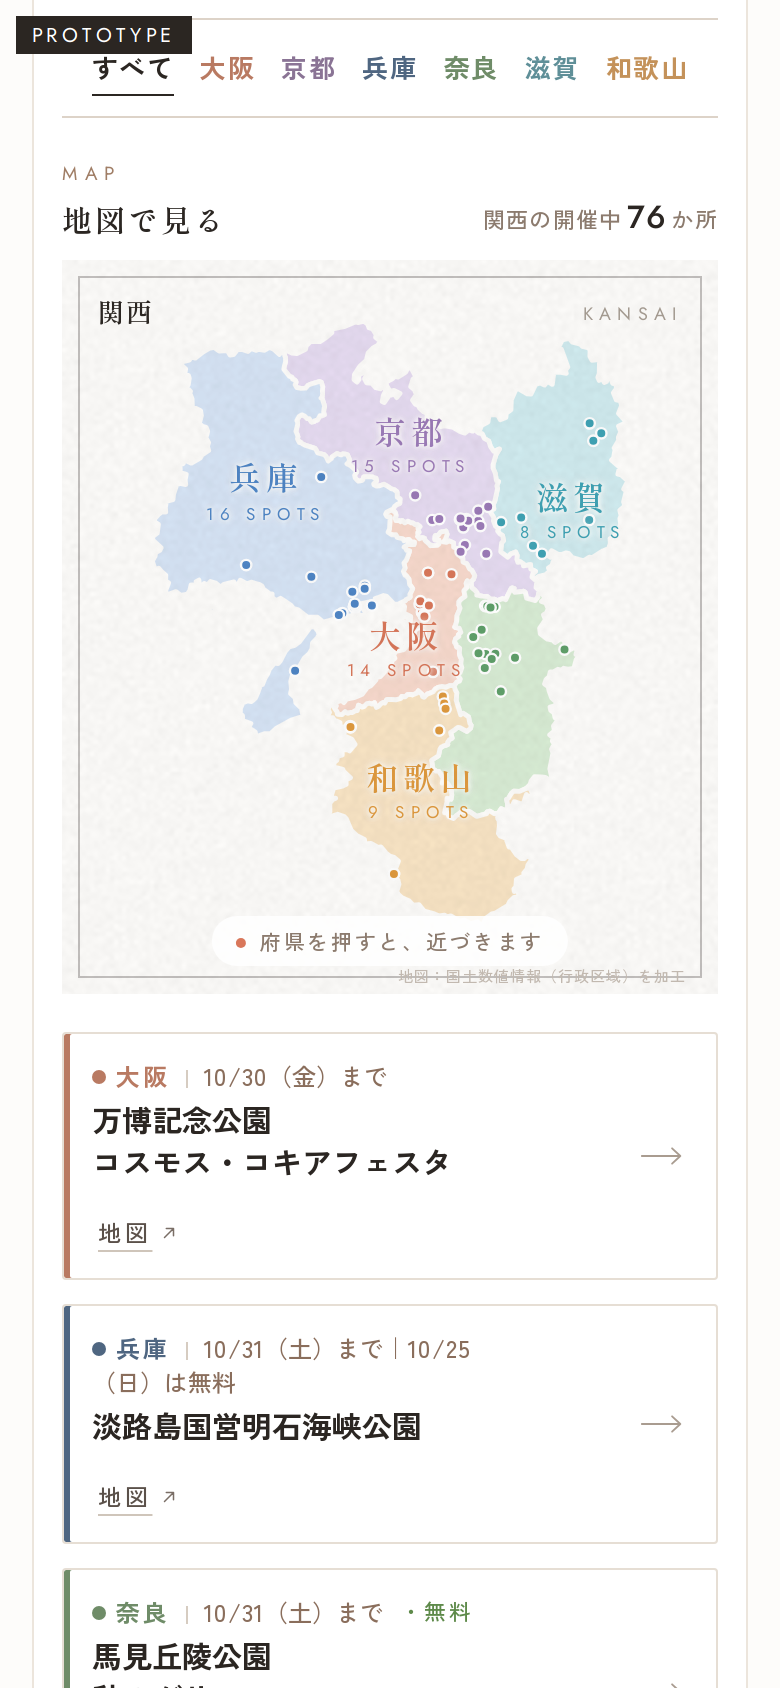
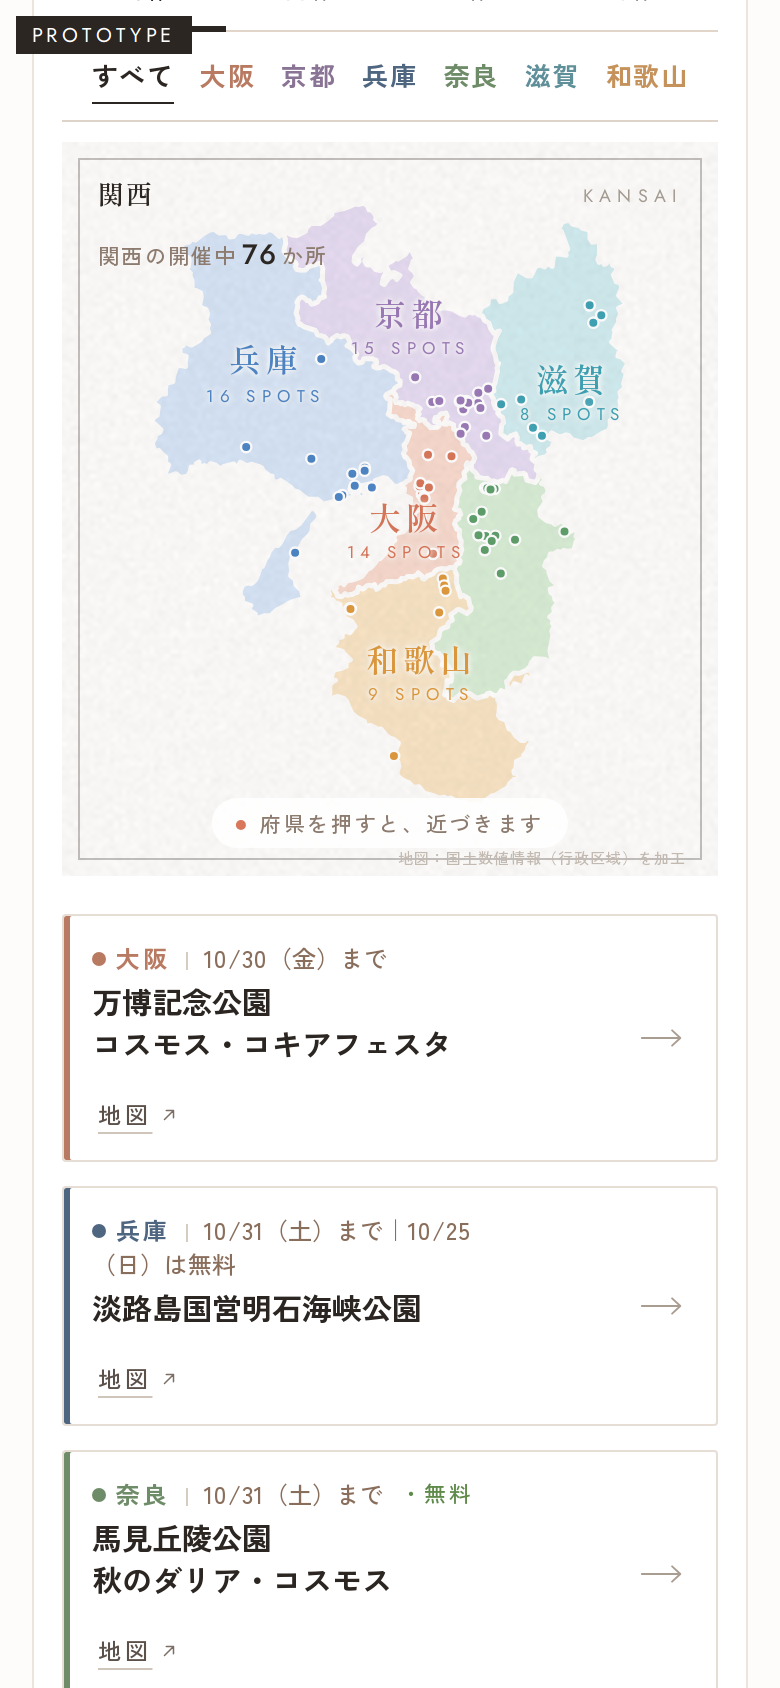
TOWN NOTES 試作：おでかけ先がある所だけ押せる地図 (#173)
* TOWN NOTES（仮）: おでかけ先の場所を緯度経度にする仕組み

Claude-Session: https://claude.ai/code/session_012U6So1FwuhCU8YQS91whDj

* TOWN NOTES（仮）: 地図とピンの仮ページ（links/townnotes/）

Claude-Session: https://claude.ai/code/session_012U6So1FwuhCU8YQS91whDj

* townnotes: geo.json

* TOWN NOTES（仮）: 今のおでかけリストに地図とピンを組み込んだ試作

Claude-Session: https://claude.ai/code/session_012U6So1FwuhCU8YQS91whDj

* 古い試作テンプレートを消す

Claude-Session: https://claude.ai/code/session_012U6So1FwuhCU8YQS91whDj

* townnotes: geo.json

* TOWN NOTES（仮）: もうすぐのピンを点線の輪に

Claude-Session: https://claude.ai/code/session_012U6So1FwuhCU8YQS91whDj

* TOWN NOTES（仮）: 地図を指で拡大できる明るい地図に（区名・駅名つき）

Claude-Session: https://claude.ai/code/session_012U6So1FwuhCU8YQS91whDj

* townnotes: shots

* TOWN NOTES（仮）: 府県名・まとまりの丸・出典の表示を直す

Claude-Session: https://claude.ai/code/session_012U6So1FwuhCU8YQS91whDj

* townnotes: shots

* TOWN NOTES（仮）: イラストの地図に戻す（府県・市区町村の形だけ、明るい色、指で拡大）

Claude-Session: https://claude.ai/code/session_012U6So1FwuhCU8YQS91whDj

* townnotes: shots

* TOWN NOTES（仮）: 府県を選んだとき、ほかの府県は薄いベージュに

Claude-Session: https://claude.ai/code/session_012U6So1FwuhCU8YQS91whDj

* townnotes: shots

* TOWN NOTES 試作 v5: 押すだけで 関西→府県→市・区 と寄る地図（指2本なし）

Claude-Session: https://claude.ai/code/session_012U6So1FwuhCU8YQS91whDj

* townnotes: shots

* TOWN NOTES 試作: 府県ボタンと件数を地図のすぐ上へ

Claude-Session: https://claude.ai/code/session_012U6So1FwuhCU8YQS91whDj

* townnotes: shots

* TOWN NOTES 試作: 件数の行は上に戻し、府県ボタンだけ地図の上へ
[…]

diff --git a/links/townnotes/map.js b/links/townnotes/map.js
@@ -35,7 +35,7 @@ var css=`
 .tn .lb{position:absolute;white-space:nowrap;transform:translate(-50%,-50%);text-shadow:0 0 2px #FDFCFA,0 0 3px #FDFCFA,0 0 6px rgba(253,252,250,.9)}
 .tn .lb.p{text-align:center;font-family:"Shippori Mincho",serif;font-weight:600;font-size:16px;letter-spacing:.16em;line-height:1.2}
 .tn .lb.p small{display:block;font-family:Jost,sans-serif;font-weight:400;font-size:8.5px;letter-spacing:.32em;margin-top:3px}
-.tn .lb.m{font-family:"Zen Kaku Gothic New",sans-serif;font-weight:700;font-size:11px;letter-spacing:.06em;color:#5C524A}
+.tn .lb.m{pointer-events:auto;cursor:pointer;padding:6px 4px;font-family:"Zen Kaku Gothic New",sans-serif;font-weight:700;font-size:11px;letter-spacing:.06em;color:#5C524A}
 .tn .lb.m b{font-family:Jost,sans-serif;font-weight:500;font-size:10px;color:#fff;background:var(--c);border-radius:8px;padding:0 5px;margin-left:4px;text-shadow:none}
 .tn .lb.w{font-family:"Zen Kaku Gothic New",sans-serif;font-weight:500;font-size:10px;letter-spacing:.06em;color:#9C8F84}
 .tn .lb.t.fl{transform:translate(calc(-100% - 12px),-50%)}
@@ -105,9 +105,9 @@ function inGeom(lon,lat,g){var ps=g.type==="Polygon"?[g.coordinates]:g.coordinat
 function el(t,a,par){var e=document.createElementNS(NS,t);for(var k in a)e.setAttribute(k,a[k]);if(par)par.appendChild(e);return e}
 function setup(KS){
  KS.pref.features.forEach(function(f){var p=f.properties.p;PF[p]={bb:gbb(f.geometry),path:el("path",{d:geom2d(f.geometry),"class":"pf",fill:FILL[p]},G.pf)};
-  PF[p].path.addEventListener("click",function(){if(level()===1)pickPref(p)})});
+  PF[p].path.addEventListener("click",function(){if(level()===1&&PF[p].has)flash(PF[p].path,DEEP[p],function(){pickPref(p)})})});
  KS.muni.features.forEach(function(f){var pr=f.properties,m={p:pr.p,n:pr.n,c:pr.c,g:f.geometry,bb:gbb(f.geometry)};m.id=m.p+"|"+m.c+"|"+m.n;
-  m.path=el("path",{d:geom2d(f.geometry),"class":"mu"},G.mu);m.path.addEventListener("click",function(ev){if(level()===2&&state.pref===m.p){ev.stopPropagation();goMuni(m.grp)}});MU.push(m)});
+  m.path=el("path",{d:geom2d(f.geometry),"class":"mu"},G.mu);m.path.addEventListener("click",function(ev){if(level()===2&&state.pref===m.p&&m.grp.has){ev.stopPropagation();var g=m.grp;g.mus.forEach(function(x){x.path.style.fill=DEEP[x.p]});setTimeout(function(){goMuni(g)},180)}});MU.push(m)});
  // 大阪市・京都市・神戸市・堺市などは、区をまとめて「市」として寄る
  MU.forEach(function(m){var gid=m.p+"|"+(m.c||m.n);var g=GR[gid];if(!g){g=GR[gid]={id:gid,p:m.p,n:m.c||m.n,city:!!m.c,mus:[],bb:[1e9,1e9,-1e9,-1e9]}}g.mus.push(m);m.grp=g;g.bb=[Math.min(g.bb[0],m.bb[0]),Math.min(g.bb[1],m.bb[1]),Math.max(g.bb[2],m.bb[2]),Math.max(g.bb[3],m.bb[3])]});
  var b=[1e9,1e9,-1e9,-1e9];PREFS.forEach(function(p){var x=PF[p].bb;b=[Math.min(b[0],x[0]),Math.min(b[1],x[1]),Math.max(b[2],x[2]),Math.max(b[3],x[3])]});HOME=b;
@@ -137,19 +137,23 @@ var state={pref:"",muni:null},list=[],lastSig="",ready=false,sel=null;
 function level(){return state.muni?3:state.pref?2:1}
 function goMuni(g){state.muni=g;sel=null;pop.classList.remove("on");render();fly(fit(g.bb,g.city?.04:.22))}
 function goPref(){state.muni=null;sel=null;pop.classList.remove("on");render();fly(state.pref?fit(PF[state.pref].bb,.03):fit(HOME,.02))}
+// 押した所を一瞬こく光らせてから動く（押せたことが分かるように）
+function flash(path,col,fn){path.setAttribute("fill",col);setTimeout(fn,180)}
 function pickPref(pf){var b=$$("#flt button").filter(function(x){return x.textContent===(pf||"すべて")})[0];if(b)b.click();}
 function muniOf(it){if(it._m!==undefined)return it._m;it._m=null;for(var i=0;i<MU.length;i++){var m=MU[i];if(m.p===it.pref&&inGeom(it.lon,it.lat,m.g)){it._m=m;break}}
  if(!it._m){var q=P(it.lon,it.lat),best=1e9;MU.forEach(function(m){if(m.p!==it.pref)return;var cx=(m.bb[0]+m.bb[2])/2,cy=(m.bb[1]+m.bb[3])/2,d=(cx-q[0])*(cx-q[0])+(cy-q[1])*(cy-q[1]);if(d<best){best=d;it._m=m}})}return it._m}
 
 function render(){var lv=level(),pf=state.pref,m=state.muni,pins=list.filter(function(i){return i.lat!=null});
- PREFS.forEach(function(p){var on=!pf||p===pf;PF[p].path.setAttribute("fill",on?FILL[p]:"#F1ECE5");});
+ PREFS.forEach(function(p){var n=pins.filter(function(i){return i.pref===p}).length;PF[p].has=n>0;var on=lv===1?n>0:p===pf;PF[p].path.setAttribute("fill",on?FILL[p]:"#F1ECE5");PF[p].path.style.cursor=lv===1&&n>0?"pointer":"default"});
  var cnt={};pins.forEach(function(i){if(i.pref!==pf)return;var mm=muniOf(i);if(mm){cnt[mm.grp.id]=(cnt[mm.grp.id]||0)+1}});
  var LIGHT=function(p){return {"大阪":"#FBEEE8","京都":"#F4EFF8","兵庫":"#EEF3FA","奈良":"#EEF6EC","滋賀":"#EAF6F8","和歌山":"#FCF3E4"}[p]};
+ Object.keys(GR).forEach(function(id){GR[id].has=!!cnt[id]});
+ if(lv===2)PF[pf].path.setAttribute("fill","#F1ECE5");
  if(lv===3)PF[pf].path.setAttribute("fill",LIGHT(pf));
- MU.forEach(function(x){var inP=x.p===pf;x.path.style.opacity=inP?1:0;x.path.style.pointerEvents=inP?"auto":"none";x.path.style.fill=m&&x.grp===m?FILL[x.p]:"transparent"});
+ MU.forEach(function(x){var inP=x.p===pf;x.path.style.opacity=inP?1:0;var hot=lv===2&&x.grp.has;x.path.style.pointerEvents=inP&&(lv!==2||hot)?"auto":"none";x.path.style.cursor=hot?"pointer":"default";x.path.style.fill=(m&&x.grp===m)||hot?FILL[x.p]:"transparent"});
  LBS.innerHTML="";LB=[];
- if(lv===1)PREFS.forEach(function(p){var c=LP[p],q=P(c[0],c[1]),n=pins.filter(function(i){return i.pref===p}).length;addL(q[0],q[1],"p",p+(n?"<small>"+n+" SPOTS</small>":""),9).style.color=PC[p]});
- if(lv===2)Object.keys(GR).forEach(function(id){var g=GR[id];if(g.p!==pf||!cnt[id])return;var cx=(g.bb[0]+g.bb[2])/2,cy=(g.bb[1]+g.bb[3])/2;addL(cx,cy,"m",esc(g.n)+"<b>"+cnt[id]+"</b>",cnt[id],PC[pf])});
+ if(lv===1)PREFS.forEach(function(p){var c=LP[p],q=P(c[0],c[1]),n=pins.filter(function(i){return i.pref===p}).length;addL(q[0],q[1],"p",p+(n?"<small>"+n+(n>1?" SPOTS":" SPOT")+"</small>":""),9).style.color=n?PC[p]:"#B9AFA5"});
+ if(lv===2)Object.keys(GR).forEach(function(id){var g=GR[id];if(g.p!==pf||!cnt[id])return;var cx=(g.bb[0]+g.bb[2])/2,cy=(g.bb[1]+g.bb[3])/2;var e=addL(cx,cy,"m",esc(g.n)+"<b>"+cnt[id]+"</b>",cnt[id],PC[pf]);e.addEventListener("click",function(ev){ev.stopPropagation();goMuni(g)})});
  if(lv===3&&m.city)m.mus.forEach(function(x){var cx=(x.bb[0]+x.bb[2])/2,cy=(x.bb[1]+x.bb[3])/2;addL(cx,cy,"w",esc(x.n),0)});
  G.pin.innerHTML="";
  pins.forEach(function(it){if(pf&&it.pref!==pf)return;var q=P(it.lon,it.lat),c=PC[it.pref]||"#2B2622",inM=lv===3&&muniOf(it)&&muniOf(it).grp===m,r=lv===1?2.6:lv===2?5:(inM?7:3.5);
@@ -165,7 +169,7 @@ function render(){var lv=level(),pf=state.pref,m=state.muni,pins=list.filter(fun
  if(lv===1)cur("関西");else{cb("関西",function(){pickPref("")});sep();if(lv===2)cur(pf);else{cb(pf,function(){goPref()});sep();cur(m.n)}}
  var ce=$(".cen",box);ce.textContent=pf?EN[pf]:"KANSAI";ce.style.color=pf?PC[pf]:"";ce.style.display=lv===1?"":"none";
  var bk=$(".bk",box);bk.style.display=lv===1?"none":"block";bk.textContent=lv===3?"‹ "+pf+"にもどる":"‹ 関西にもどる";bk.onclick=function(){if(level()===3)goPref();else pickPref("")};
- $(".hint",box).textContent=lv===1?"府県を押すと、近づきます":lv===2?"市や区を押すと、もっと近づきます":"ピンを押すと、くわしく見られます";
+ $(".hint",box).textContent=lv===1?"色のついた府県を押すと、近づきます":lv===2?"色のついた所を押すと、もっと近づきます":"ピンを押すと、くわしく見られます";
  $("#tnn",box).innerHTML=(lv===3?m.n:pf||"関西")+"の"+curTab()+"<b>"+(lv===3?(cnt[m.id]||0):pins.filter(function(i){return !pf||i.pref===pf}).length)+"</b>か所";
  apply();}
 

diff --git a/tools/townnotes/map.src.js b/tools/townnotes/map.src.js
@@ -35,7 +35,7 @@ var css=`
 .tn .lb{position:absolute;white-space:nowrap;transform:translate(-50%,-50%);text-shadow:0 0 2px #FDFCFA,0 0 3px #FDFCFA,0 0 6px rgba(253,252,250,.9)}
 .tn .lb.p{text-align:center;font-family:"Shippori Mincho",serif;font-weight:600;font-size:16px;letter-spacing:.16em;line-height:1.2}
 .tn .lb.p small{display:block;font-family:Jost,sans-serif;font-weight:400;font-size:8.5px;letter-spacing:.32em;margin-top:3px}
-.tn .lb.m{font-family:"Zen Kaku Gothic New",sans-serif;font-weight:700;font-size:11px;letter-spacing:.06em;color:#5C524A}
+.tn .lb.m{pointer-events:auto;cursor:pointer;padding:6px 4px;font-family:"Zen Kaku Gothic New",sans-serif;font-weight:700;font-size:11px;letter-spacing:.06em;color:#5C524A}
 .tn .lb.m b{font-family:Jost,sans-serif;font-weight:500;font-size:10px;color:#fff;background:var(--c);border-radius:8px;padding:0 5px;margin-left:4px;text-shadow:none}
 .tn .lb.w{font-family:"Zen Kaku Gothic New",sans-serif;font-weight:500;font-size:10px;letter-spacing:.06em;color:#9C8F84}
 .tn .lb.t.fl{transform:translate(calc(-100% - 12px),-50%)}
@@ -105,9 +105,9 @@ function inGeom(lon,lat,g){var ps=g.type==="Polygon"?[g.coordinates]:g.coordinat
 function el(t,a,par){var e=document.createElementNS(NS,t);for(var k in a)e.setAttribute(k,a[k]);if(par)par.appendChild(e);return e}
 function setup(KS){
  KS.pref.features.forEach(function(f){var p=f.properties.p;PF[p]={bb:gbb(f.geometry),path:el("path",{d:geom2d(f.geometry),"class":"pf",fill:FILL[p]},G.pf)};
-  PF[p].path.addEventListener("click",function(){if(level()===1)pickPref(p)})});
+  PF[p].path.addEventListener("click",function(){if(level()===1&&PF[p].has)flash(PF[p].path,DEEP[p],function(){pickPref(p)})})});
  KS.muni.features.forEach(function(f){var pr=f.properties,m={p:pr.p,n:pr.n,c:pr.c,g:f.geometry,bb:gbb(f.geometry)};m.id=m.p+"|"+m.c+"|"+m.n;
-  m.path=el("path",{d:geom2d(f.geometry),"class":"mu"},G.mu);m.path.addEventListener("click",function(ev){if(level()===2&&state.pref===m.p){ev.stopPropagation();goMuni(m.grp)}});MU.push(m)});
+  m.path=el("path",{d:geom2d(f.geometry),"class":"mu"},G.mu);m.path.addEventListener("click",function(ev){if(level()===2&&state.pref===m.p&&m.grp.has){ev.stopPropagation();var g=m.grp;g.mus.forEach(function(x){x.path.style.fill=DEEP[x.p]});setTimeout(function(){goMuni(g)},180)}});MU.push(m)});
  // 大阪市・京都市・神戸市・堺市などは、区をまとめて「市」として寄る
  MU.forEach(function(m){var gid=m.p+"|"+(m.c||m.n);var g=GR[gid];if(!g){g=GR[gid]={id:gid,p:m.p,n:m.c||m.n,city:!!m.c,mus:[],bb:[1e9,1e9,-1e9,-1e9]}}g.mus.push(m);m.grp=g;g.bb=[Math.min(g.bb[0],m.bb[0]),Math.min(g.bb[1],m.bb[1]),Math.max(g.bb[2],m.bb[2]),Math.max(g.bb[3],m.bb[3])]});
  var b=[1e9,1e9,-1e9,-1e9];PREFS.forEach(function(p){var x=PF[p].bb;b=[Math.min(b[0],x[0]),Math.min(b[1],x[1]),Math.max(b[2],x[2]),Math.max(b[3],x[3])]});HOME=b;
@@ -137,19 +137,23 @@ var state={pref:"",muni:null},list=[],lastSig="",ready=false,sel=null;
 function level(){return state.muni?3:state.pref?2:1}
 function goMuni(g){state.muni=g;sel=null;pop.classList.remove("on");render();fly(fit(g.bb,g.city?.04:.22))}
 function goPref(){state.muni=null;sel=null;pop.classList.remove("on");render();fly(state.pref?fit(PF[state.pref].bb,.03):fit(HOME,.02))}
+// 押した所を一瞬こく光らせてから動く（押せたことが分かるように）
+function flash(path,col,fn){path.setAttribute("fill",col);setTimeout(fn,180)}
 function pickPref(pf){var b=$$("#flt button").filter(function(x){return x.textContent===(pf||"すべて")})[0];if(b)b.click();}
 function muniOf(it){if(it._m!==undefined)return it._m;it._m=null;for(var i=0;i<MU.length;i++){var m=MU[i];if(m.p===it.pref&&inGeom(it.lon,it.lat,m.g)){it._m=m;break}}
  if(!it._m){var q=P(it.lon,it.lat),best=1e9;MU.forEach(function(m){if(m.p!==it.pref)return;var cx=(m.bb[0]+m.bb[2])/2,cy=(m.bb[1]+m.bb[3])/2,d=(cx-q[0])*(cx-q[0])+(cy-q[1])*(cy-q[1]);if(d<best){best=d;it._m=m}})}return it._m}
 
 function render(){var lv=level(),pf=state.pref,m=state.muni,pins=list.filter(function(i){return i.lat!=null});
- PREFS.forEach(function(p){var on=!pf||p===pf;PF[p].path.setAttribute("fill",on?FILL[p]:"#F1ECE5");});
+ PREFS.forEach(function(p){var n=pins.filter(function(i){return i.pref===p}).length;PF[p].has=n>0;var on=lv===1?n>0:p===pf;PF[p].path.setAttribute("fill",on?FILL[p]:"#F1ECE5");PF[p].path.style.cursor=lv===1&&n>0?"pointer":"default"});
  var cnt={};pins.forEach(function(i){if(i.pref!==pf)return;var mm=muniOf(i);if(mm){cnt[mm.grp.id]=(cnt[mm.grp.id]||0)+1}});
  var LIGHT=function(p){return {"大阪":"#FBEEE8","京都":"#F4EFF8","兵庫":"#EEF3FA","奈良":"#EEF6EC","滋賀":"#EAF6F8","和歌山":"#FCF3E4"}[p]};
+ Object.keys(GR).forEach(function(id){GR[id].has=!!cnt[id]});
+ if(lv===2)PF[pf].path.setAttribute("fill","#F1ECE5");
  if(lv===3)PF[pf].path.setAttribute("fill",LIGHT(pf));
- MU.forEach(function(x){var inP=x.p===pf;x.path.style.opacity=inP?1:0;x.path.style.pointerEvents=inP?"auto":"none";x.path.style.fill=m&&x.grp===m?FILL[x.p]:"transparent"});
+ MU.forEach(function(x){var inP=x.p===pf;x.path.style.opacity=inP?1:0;var hot=lv===2&&x.grp.has;x.path.style.pointerEvents=inP&&(lv!==2||hot)?"auto":"none";x.path.style.cursor=hot?"pointer":"default";x.path.style.fill=(m&&x.grp===m)||hot?FILL[x.p]:"transparent"});
  LBS.innerHTML="";LB=[];
- if(lv===1)PREFS.forEach(function(p){var c=LP[p],q=P(c[0],c[1]),n=pins.filter(function(i){return i.pref===p}).length;addL(q[0],q[1],"p",p+(n?"<small>"+n+" SPOTS</small>":""),9).style.color=PC[p]});
- if(lv===2)Object.keys(GR).forEach(function(id){var g=GR[id];if(g.p!==pf||!cnt[id])return;var cx=(g.bb[0]+g.bb[2])/2,cy=(g.bb[1]+g.bb[3])/2;addL(cx,cy,"m",esc(g.n)+"<b>"+cnt[id]+"</b>",cnt[id],PC[pf])});
+ if(lv===1)PREFS.forEach(function(p){var c=LP[p],q=P(c[0],c[1]),n=pins.filter(function(i){return i.pref===p}).length;addL(q[0],q[1],"p",p+(n?"<small>"+n+(n>1?" SPOTS":" SPOT")+"</small>":""),9).style.color=n?PC[p]:"#B9AFA5"});
+ if(lv===2)Object.keys(GR).forEach(function(id){var g=GR[id];if(g.p!==pf||!cnt[id])return;var cx=(g.bb[0]+g.bb[2])/2,cy=(g.bb[1]+g.bb[3])/2;var e=addL(cx,cy,"m",esc(g.n)+"<b>"+cnt[id]+"</b>",cnt[id],PC[pf]);e.addEventListener("click",function(ev){ev.stopPropagation();goMuni(g)})});
  if(lv===3&&m.city)m.mus.forEach(function(x){var cx=(x.bb[0]+x.bb[2])/2,cy=(x.bb[1]+x.bb[3])/2;addL(cx,cy,"w",esc(x.n),0)});
  G.pin.innerHTML="";
  pins.forEach(function(it){if(pf&&it.pref!==pf)return;var q=P(it.lon,it.lat),c=PC[it.pref]||"#2B2622",inM=lv===3&&muniOf(it)&&muniOf(it).grp===m,r=lv===1?2.6:lv===2?5:(inM?7:3.5);
@@ -165,7 +169,7 @@ function render(){var lv=level(),pf=state.pref,m=state.muni,pins=list.filter(fun
  if(lv===1)cur("関西");else{cb("関西",function(){pickPref("")});sep();if(lv===2)cur(pf);else{cb(pf,function(){goPref()});sep();cur(m.n)}}
  var ce=$(".cen",box);ce.textContent=pf?EN[pf]:"KANSAI";ce.style.color=pf?PC[pf]:"";ce.style.display=lv===1?"":"none";
  var bk=$(".bk",box);bk.style.display=lv===1?"none":"block";bk.textContent=lv===3?"‹ "+pf+"にもどる":"‹ 関西にもどる";bk.onclick=function(){if(level()===3)goPref();else pickPref("")};
- $(".hint",box).textContent=lv===1?"府県を押すと、近づきます":lv===2?"市や区を押すと、もっと近づきます":"ピンを押すと、くわしく見られます";
+ $(".hint",box).textContent=lv===1?"色のついた府県を押すと、近づきます":lv===2?"色のついた所を押すと、もっと近づきます":"ピンを押すと、くわしく見られます";
  $("#tnn",box).innerHTML=(lv===3?m.n:pf||"関西")+"の"+curTab()+"<b>"+(lv===3?(cnt[m.id]||0):pins.filter(function(i){return !pf||i.pref===pf}).length)+"</b>か所";
  apply();}
 
